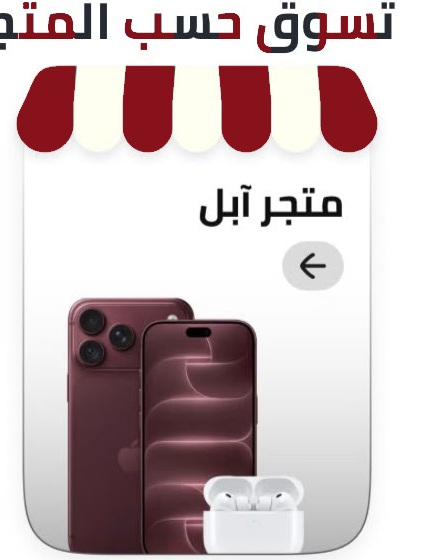
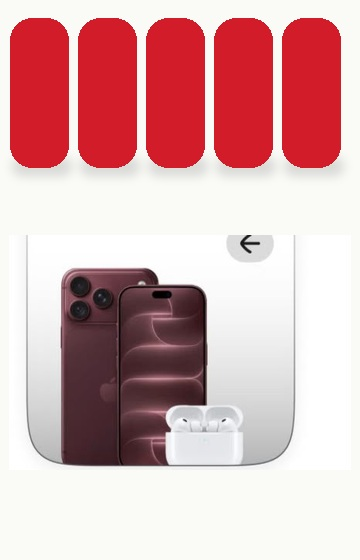
Use clean store cards with alternating awnings

diff --git a/src/pages/Home.jsx b/src/pages/Home.jsx
@@ -308,7 +308,7 @@ const Home = () => {
                 id: `category-store-${category.id || category.name}`,
                 name: category.name,
                 category: category.name,
-                imageUrl: ['/store-backgrounds/apple.jpg?v=red-awning-2', '/store-backgrounds/protein.jpg?v=blue-awning-2', '/store-backgrounds/dates.jpg?v=red-awning-2'][index % 3],
+                imageUrl: ['/store-backgrounds/apple.jpg?v=clean-awning-3', '/store-backgrounds/protein.jpg?v=clean-awning-3', '/store-backgrounds/dates.jpg?v=clean-awning-3'][index % 3],
             }))
         .slice(0, 6);
     const storefrontCards = merchantStores.length > 0 ? merchantStores : storefrontFallbacks;
